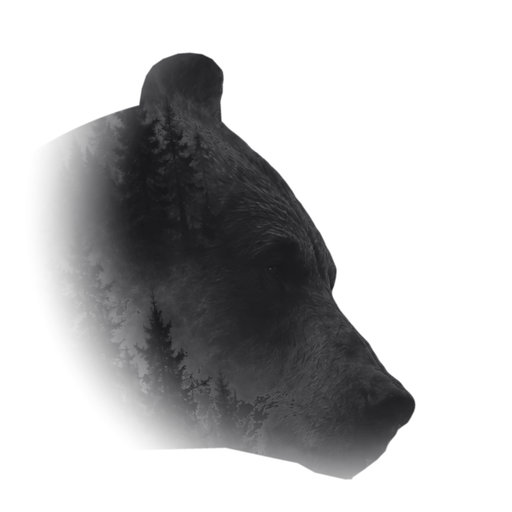
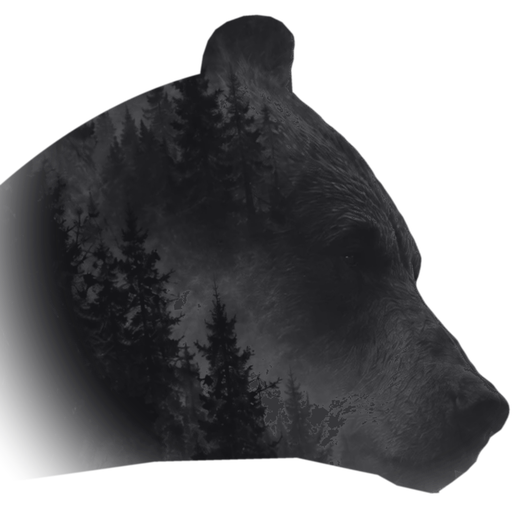
Сайт: значок крупнее — голова медведя на весь значок
Claude-Session: https://claude.ai/code/session_01Uu83MB45nkJX1tXJZPePva

diff --git a/site/index.html b/site/index.html
@@ -7,9 +7,9 @@
 <meta name="description" content="Лана Фрейтаг — любовные романы. Новые главы на Литнете.">
 <meta name="theme-color" content="#fbfbfd" media="(prefers-color-scheme: light)">
 <meta name="theme-color" content="#0f0f13" media="(prefers-color-scheme: dark)">
-<link rel="icon" type="image/png" sizes="32x32" href="icon-32.png?9">
-<link rel="icon" type="image/png" sizes="512x512" href="icon-512.png?9">
-<link rel="apple-touch-icon" href="icon-bear.png?9">
+<link rel="icon" type="image/png" sizes="32x32" href="icon-32.png?10">
+<link rel="icon" type="image/png" sizes="512x512" href="icon-512.png?10">
+<link rel="apple-touch-icon" href="icon-bear.png?10">
 <link rel="preconnect" href="https://fonts.googleapis.com">
 <link rel="preconnect" href="https://fonts.gstatic.com" crossorigin>
 <link rel="stylesheet" href="https://fonts.googleapis.com/css2?family=Cormorant:ital,wght@1,400;1,500&family=Golos+Text:wght@400;500&family=Oranienbaum&display=swap">

diff --git a/site/admin/index.html b/site/admin/index.html
@@ -5,9 +5,9 @@
 <meta name="viewport" content="width=device-width, initial-scale=1, viewport-fit=cover">
 <meta name="robots" content="noindex">
 <title>Сайт · админка</title>
-<link rel="icon" type="image/png" sizes="32x32" href="../icon-32.png?9">
-<link rel="icon" type="image/png" sizes="512x512" href="../icon-512.png?9">
-<link rel="apple-touch-icon" href="../icon-bear.png?9">
+<link rel="icon" type="image/png" sizes="32x32" href="../icon-32.png?10">
+<link rel="icon" type="image/png" sizes="512x512" href="../icon-512.png?10">
+<link rel="apple-touch-icon" href="../icon-bear.png?10">
 <link rel="preconnect" href="https://fonts.googleapis.com">
 <link rel="preconnect" href="https://fonts.gstatic.com" crossorigin>
 <link rel="stylesheet" href="https://fonts.googleapis.com/css2?family=Cormorant:ital,wght@1,400;1,500&family=Golos+Text:wght@400;500&family=Oranienbaum&display=swap">

diff --git a/AGENTS.md b/AGENTS.md
@@ -37,7 +37,7 @@
   последний призыв; на телефоне кнопка «Читать» внизу появляется, когда главная ушла из виду.
   Пустые разделы не показываются. Цитаты, отрывки, отзывы — только настоящие (из книг/от читателей), не выдумывать.
   Первый экран главной — без обложек книг: слева заголовок и кнопка, справа **медведь в тумане над лесом — кадр с её обложки
-  «Звериная тропа для двоих»** (`site/hero-bear.jpg`, без лица героини и названия; значок вкладки — как у крупных сайтов: прозрачный фон, крупно (на весь значок) настоящая голова медведя с той же обложки (глаз, нос, шерсть; затылок уходит в туман), с чётким силуэтом (контур профиля с обложки, ухо низкое и широкое, полукругом (высокое круглое на ножке она назвала неприличным, «палку» — тоже), челюсть точно по обложке: низ челюсти от подбородка идёт назад и ВВЕРХ (линия через x 905→848 при y 679→650 в координатах обложки), шеи нет; голова приподнята совсем чуть-чуть (на 8°); ухо — сглаженный контур уха с обложки, округлое, умеренной высоты, чуть отклонено назад (толстую шею и второй подбородок она назвала «жирный»), затылок и низ растворяются мягко по кругу от морды (прямоугольные края растушёвки — нет), фактура внутри едва заметная, голова чуть приподнята — морда вперёд, внутри фактура обложки; затылок и шея тают к краю) — размытая голова во вкладке «сливается»; белый ореол на розовой вкладке некрасив; плитку под значком она не хочет; для iPhone (`icon-bear.png`) — на светлом фоне; чёрный силуэт (и обведённый, и нарисованный) она отвергла, мелкую голову в круге — тоже (`site/icon-32.png`, `icon-bear.png` 180, `icon-512.png`; рисованного кодом медведя она отвергла))
+  «Звериная тропа для двоих»** (`site/hero-bear.jpg`, без лица героини и названия; значок вкладки — как у крупных сайтов: прозрачный фон, крупно (на весь значок) настоящая голова медведя с той же обложки (глаз, нос, шерсть; затылок уходит в туман), с чётким силуэтом (контур профиля с обложки, ухо низкое и широкое, полукругом (высокое круглое на ножке она назвала неприличным, «палку» — тоже), челюсть точно по обложке: низ челюсти от подбородка идёт назад и ВВЕРХ (линия через x 905→848 при y 679→650 в координатах обложки), шеи нет; голова приподнята совсем чуть-чуть (на 8°); ухо — сглаженный контур уха с обложки, округлое, умеренной высоты, чуть отклонено назад; голова на весь значок — от уха до носа во всю ширину и высоту, затылок уходит за левый край (толстую шею и второй подбородок она назвала «жирный»), затылок и низ растворяются мягко по кругу от морды (прямоугольные края растушёвки — нет), фактура внутри едва заметная, голова чуть приподнята — морда вперёд, внутри фактура обложки; затылок и шея тают к краю) — размытая голова во вкладке «сливается»; белый ореол на розовой вкладке некрасив; плитку под значком она не хочет; для iPhone (`icon-bear.png`) — на светлом фоне; чёрный силуэт (и обведённый, и нарисованный) она отвергла, мелкую голову в круге — тоже (`site/icon-32.png`, `icon-bear.png` 180, `icon-512.png`; рисованного кодом медведя она отвергла))
   или другая картинка `photo`. Картинка 1300×1000: только голова медведя (ели ВНУТРИ силуэта — как на обложке, можно) из обложки
   в полном разрешении, мягко выходит из лёгкого тумана; дымка обложки переведена в белый (смешивание multiply с фоном).
   Текст и медведь — одна композиция строго по центру экрана (сетка 540px + 500px, медведь заходит под текст на 48px, текст сдвинут вправо до 48px — у медведя справа туман, так визуальный центр совпадает с центром экрана); картинка — в той же сетке, не absolute. У `.hero-in` нет z-index — иначе multiply не смешивается с фоном и виден белый прямоугольник.
